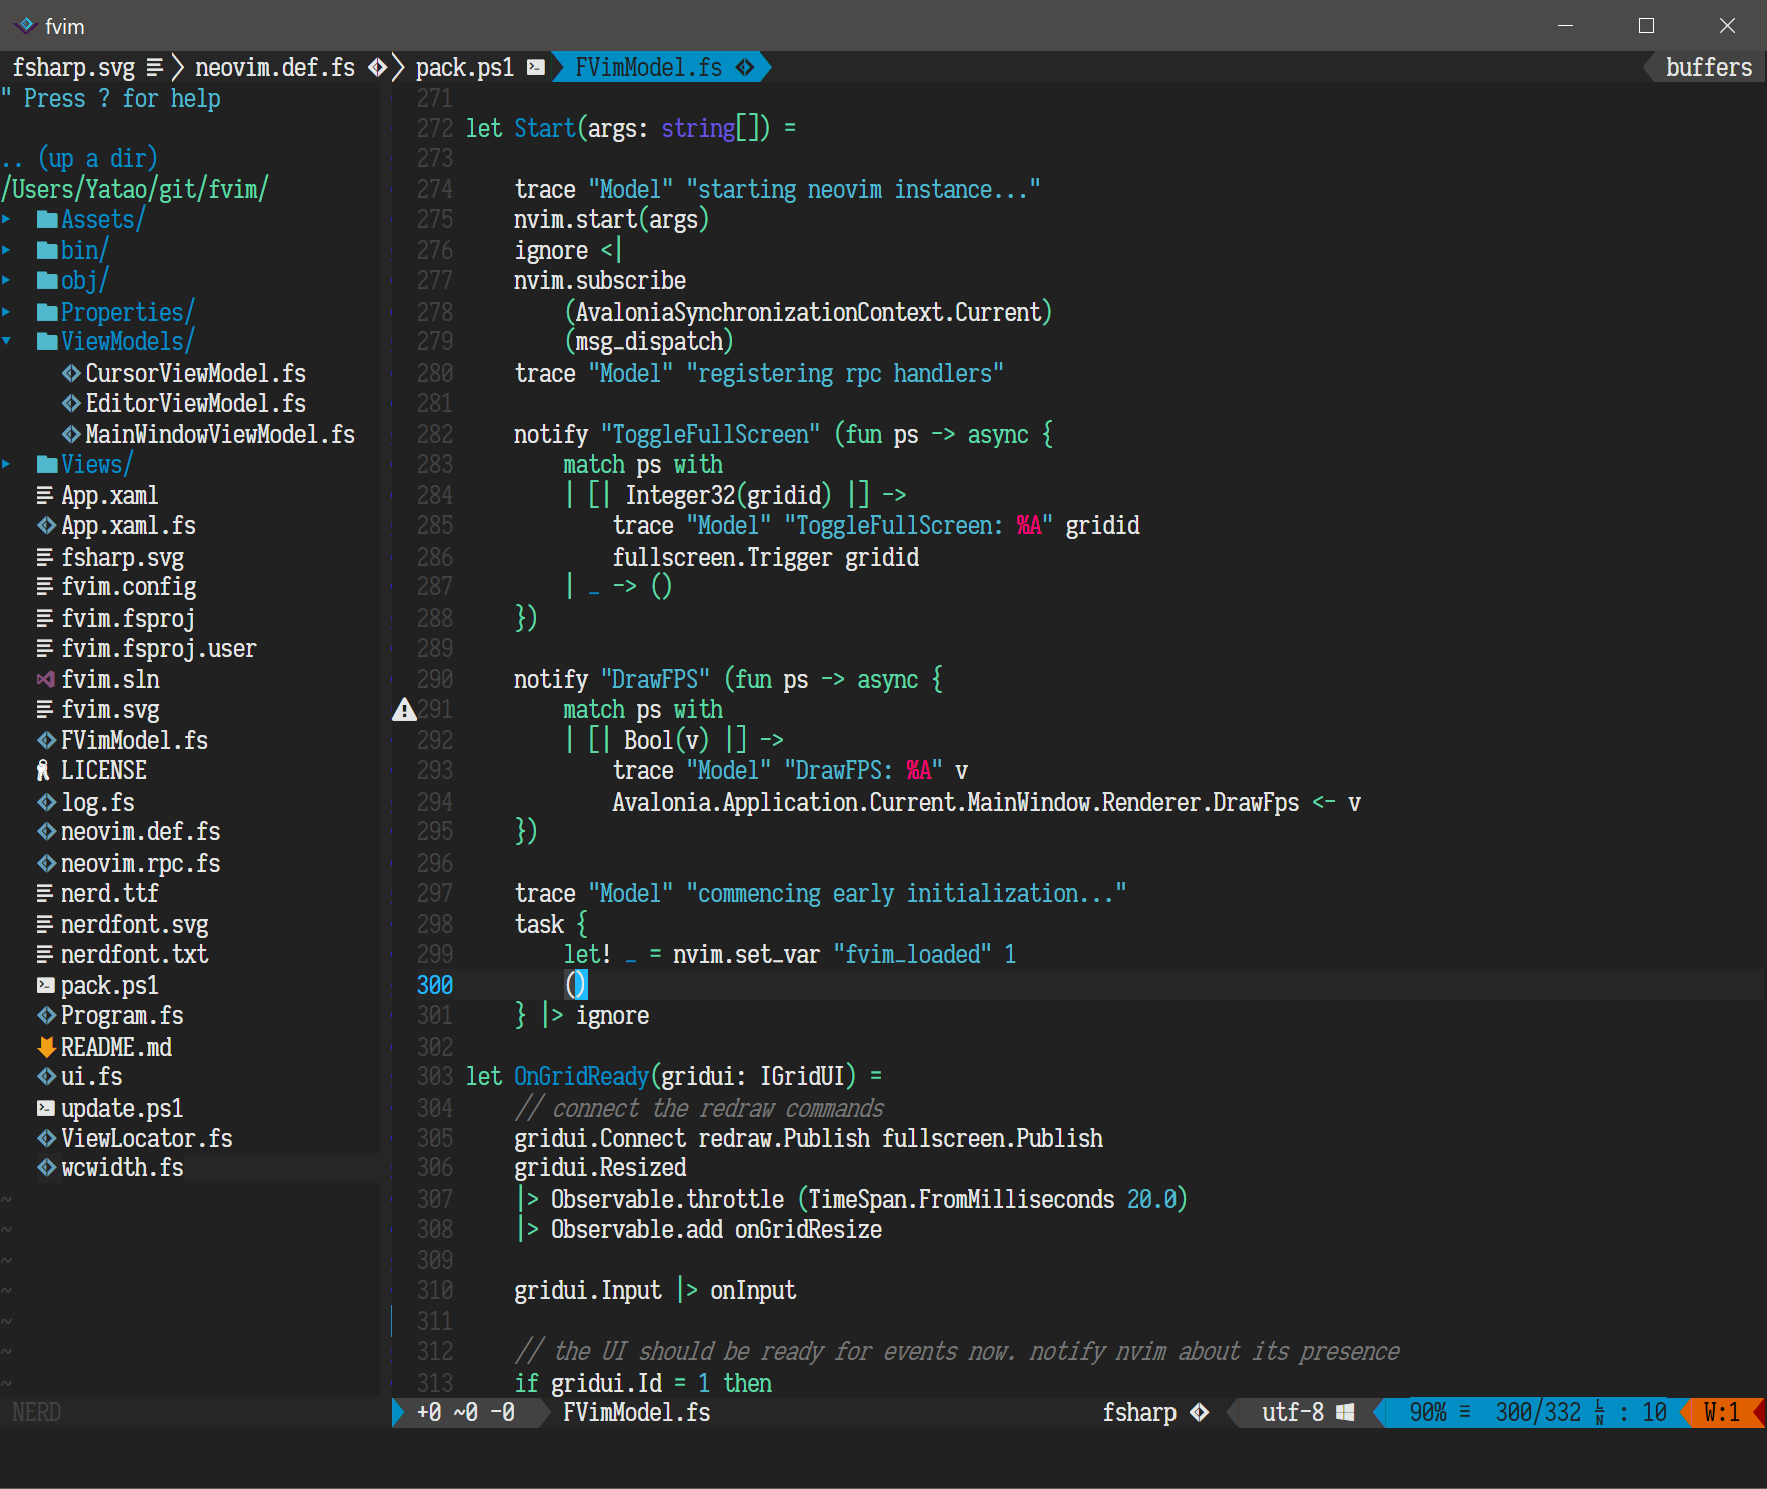
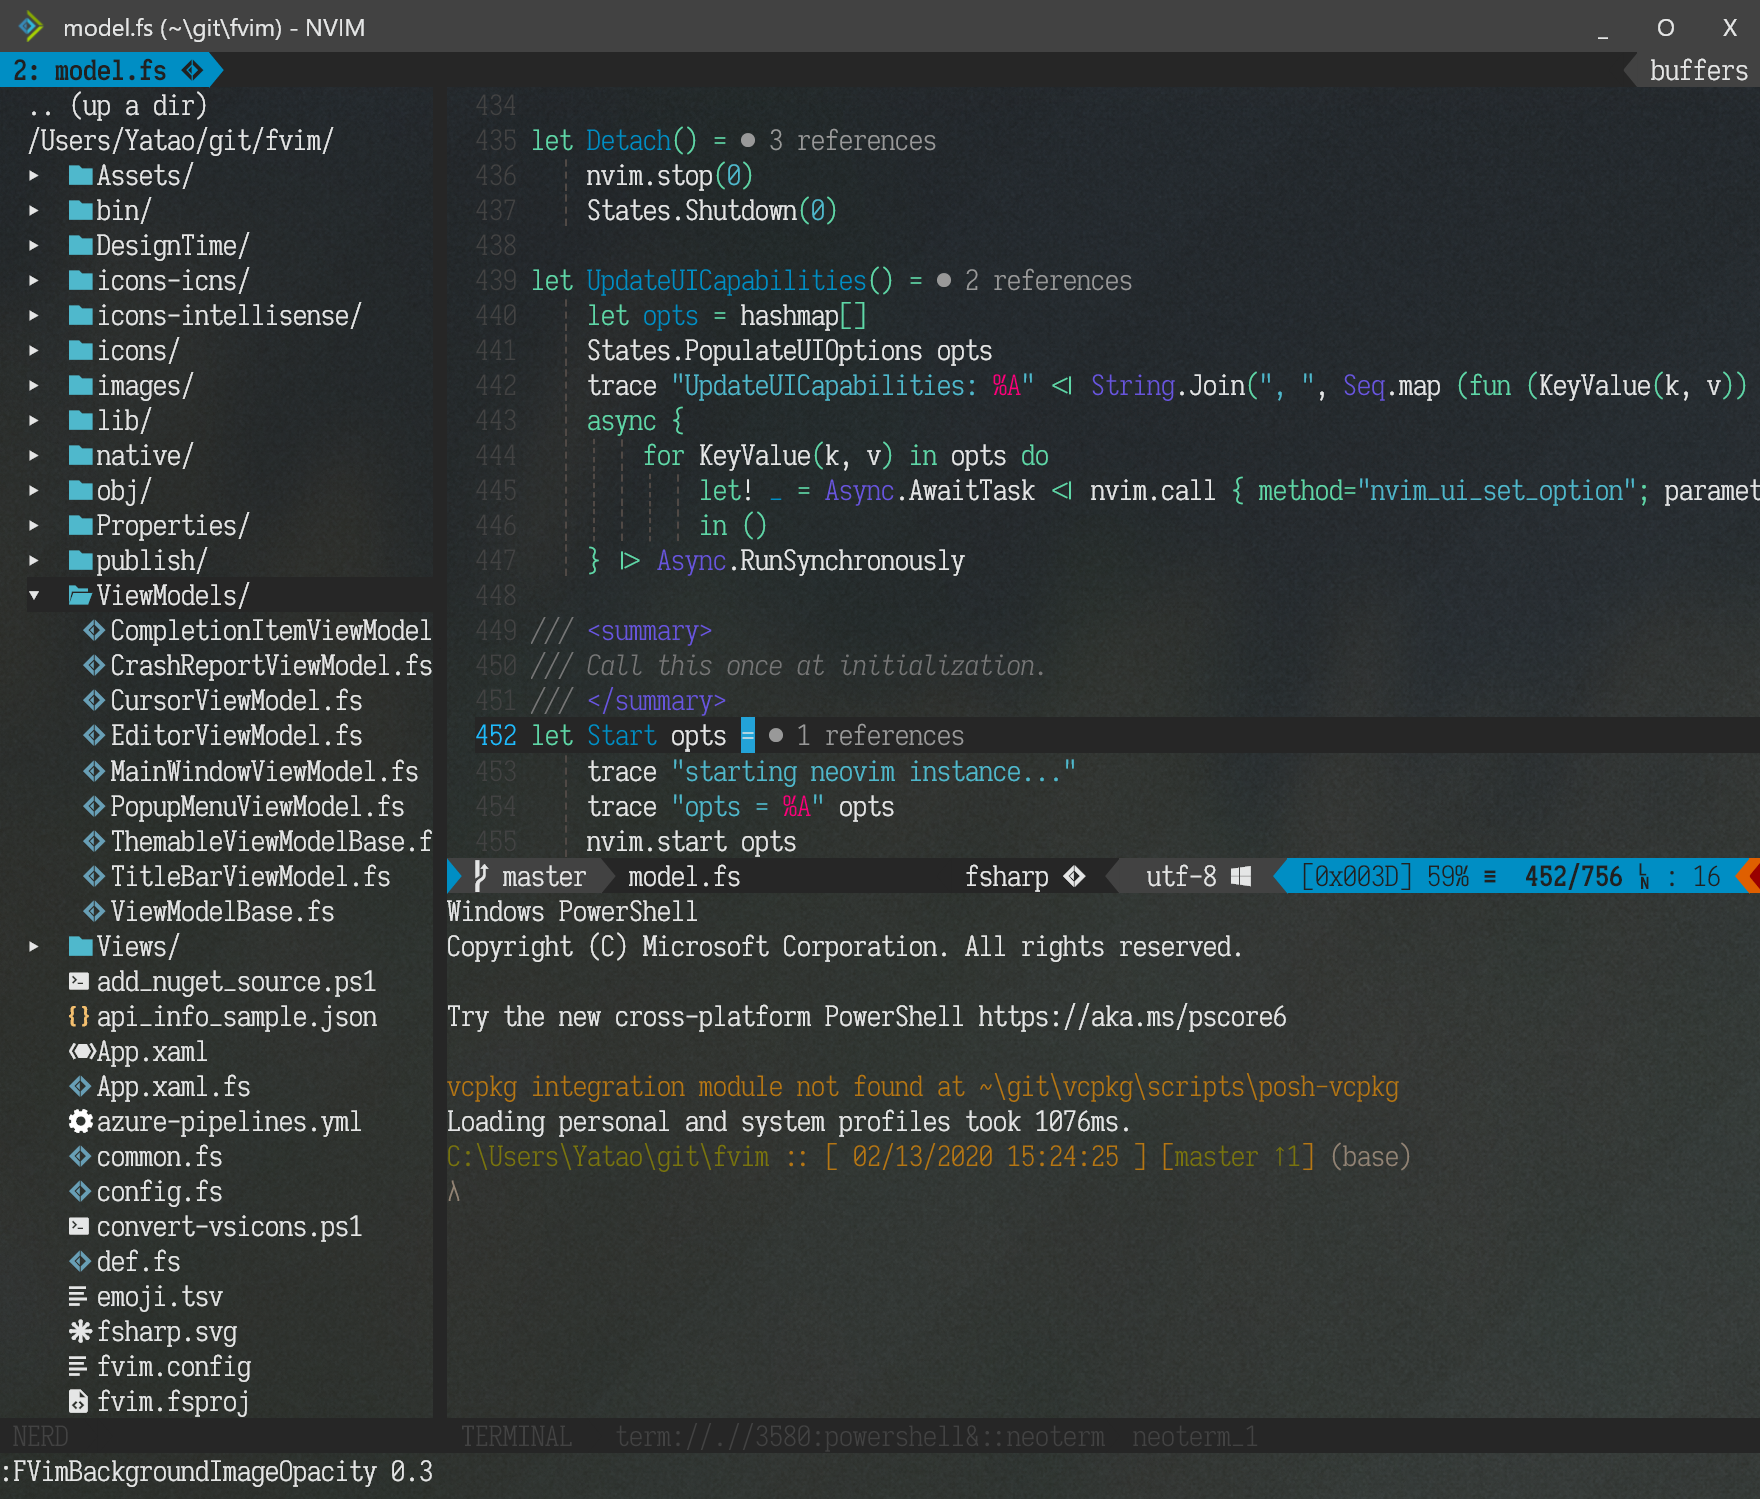
update screenshot and readme

diff --git a/README.md b/README.md
@@ -25,19 +25,27 @@ Cross platform Neovim front-end UI, built with [F#](https://fsharp.org/) + [Aval
 
 ### Features
 
-- HiDPI support -- try dragging it across two screens with different DPIs ;)
-- Proper font rendering -- respects font style, baseline, [ligatures](https://github.com/tonsky/FiraCode) etc.
-- Proper cursor rendering -- color, blink etc.
-- Built-in support for Nerd font -- no need to patch your fonts!
-- East Asia wide glyph display with font fallback options
-- Emojis!
-- High performance rendering, low latency (60FPS on 4K display with reasonable font size!)
-- GPU acceleration
-- Use a Windows FVim frontend with a WSL neovim: `fvim --wsl`
-- Use the front end with a remote neovim: `fvim --ssh user@host`
-- Use custom neovim binary: `fvim --nvim ~/bin/nvim.appimage`
-- Host a daemon to preload NeoVim
-- Connect to a remote NeoVim backend: `fvim --connect localhost:9527`
+- Theming done the (Neo)Vim way
+  - Cursor color/blink
+  - Background image/composition
+  - Custom UI elements are themed with `colorscheme` settings
+  - And more!
+- Font handling
+  - Proper font rendering -- respects font style, baseline, [ligatures](https://github.com/tonsky/FiraCode) etc.
+  - Built-in support for Nerd font -- no need to patch your fonts!
+  - East Asia wide glyph display with font fallback options
+  - Fine-grained font tweaking knobs for personal font rendering
+  - Emojis!
+- GUI framework
+  - HiDPI support -- try dragging it across two screens with different DPIs ;)
+  - High performance rendering, low latency (60FPS on 4K display with reasonable font size!)
+  - GPU acceleration
+- Remoting
+  - Use a Windows FVim frontend with a WSL neovim: `fvim --wsl`
+  - Use the front end with a remote neovim: `fvim --ssh user@host`
+  - Use custom neovim binary: `fvim --nvim ~/bin/nvim.appimage`
+  - Host a daemon to preload NeoVim
+  - Connect to a remote NeoVim backend: `fvim --connect localhost:9527`
 
 Try these bindings (note, fvim-specific settings only work in `ginit.vim`, not `init.vim`!):
 ```vimL
@@ -51,7 +59,7 @@ if exists('g:fvim_loaded')
 endif
 ```
 
-Some work-in-progress fancy cursor effects:
+Some fancy cursor effects:
 ```vimL
 if exists('g:fvim_loaded')
     FVimCursorSmoothMove v:true
